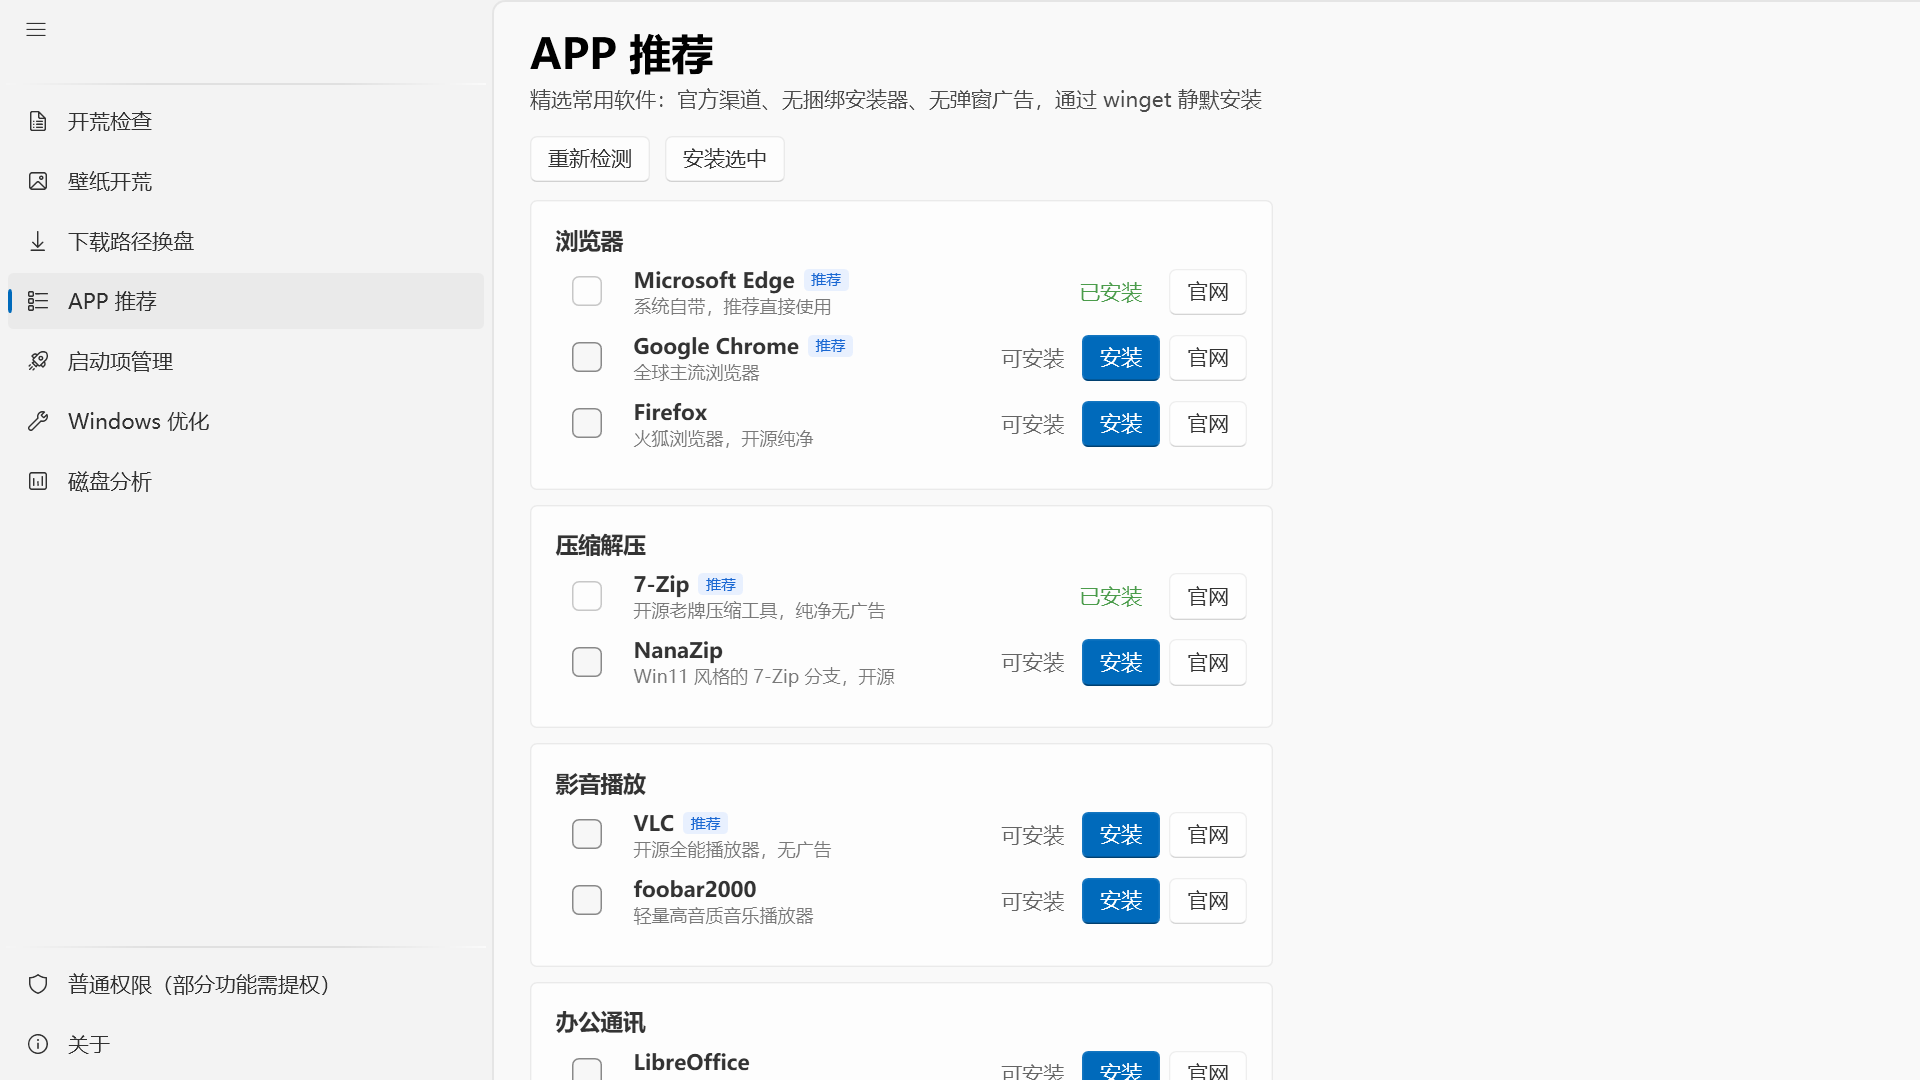
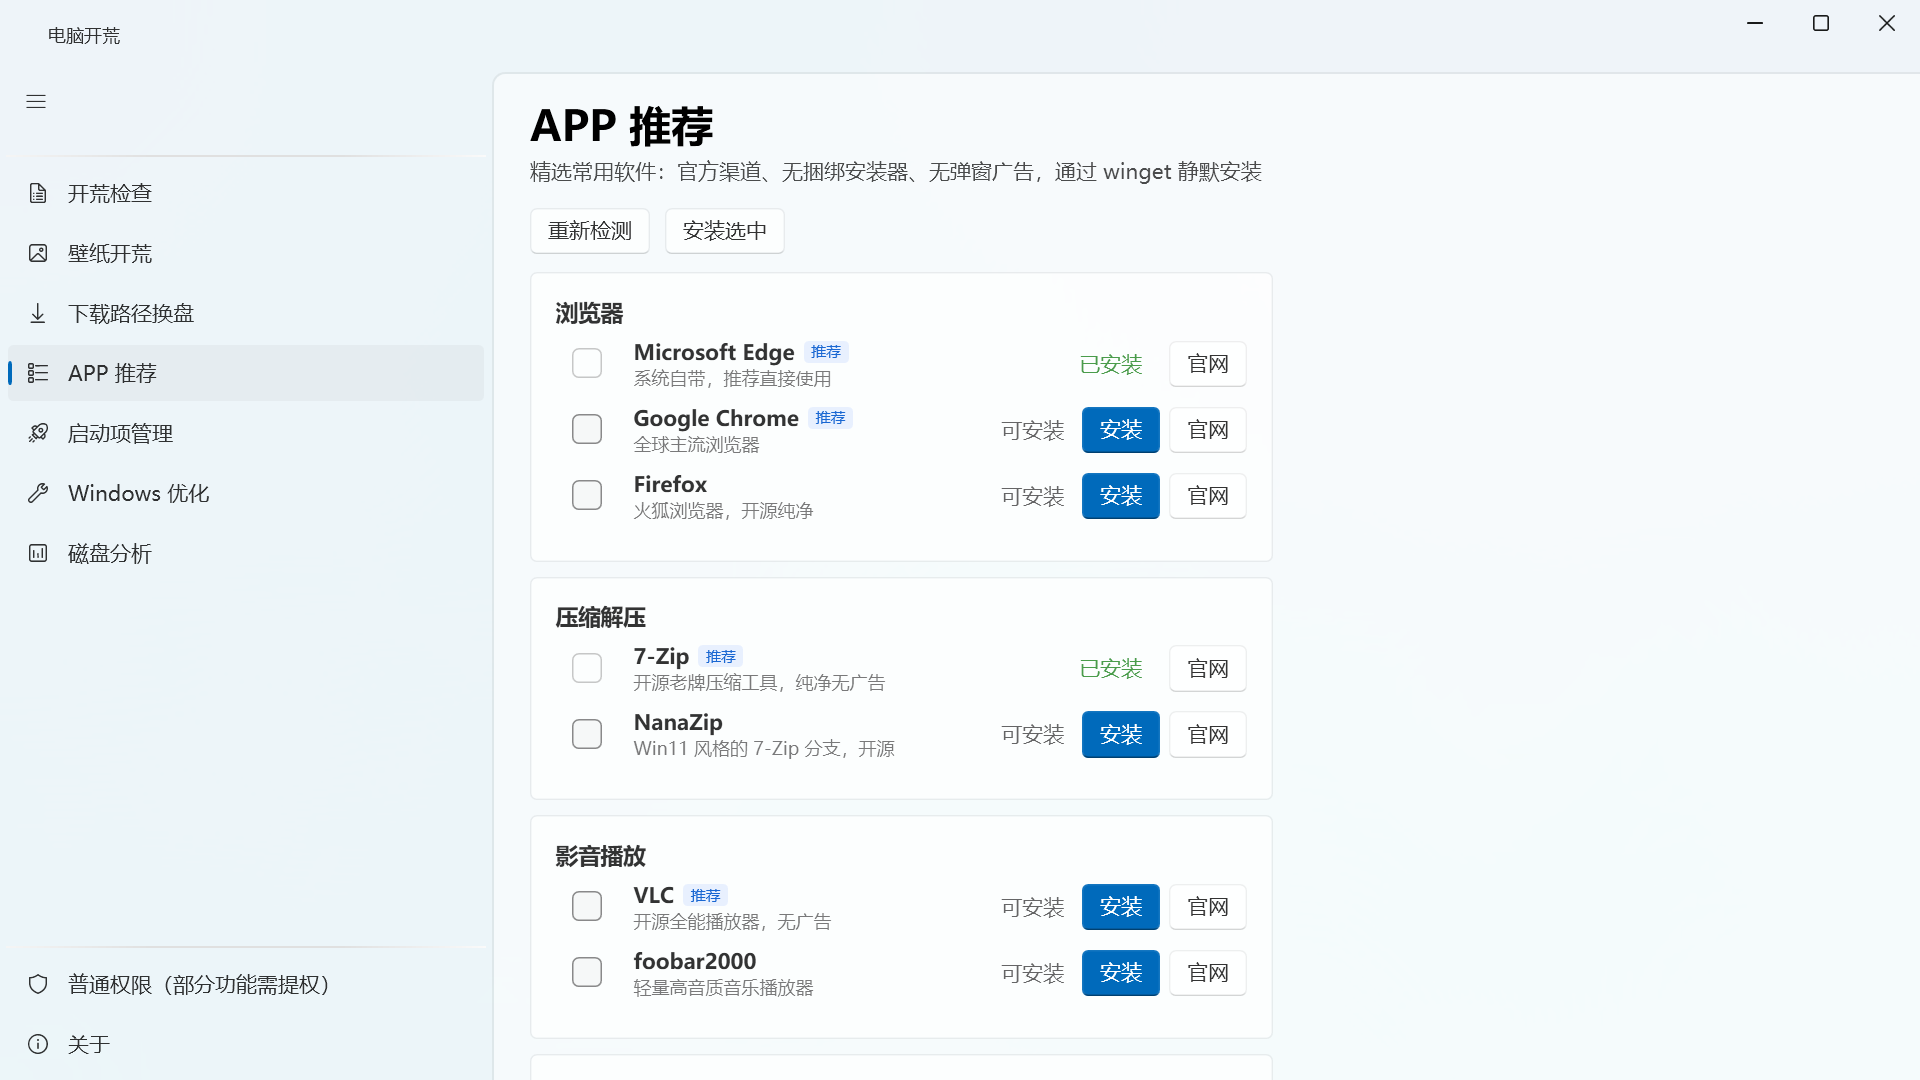
修复窗口无关闭按钮+官网整合——FluentWindow 加 TitleBar（最小化/最大化/关闭），关于页官网卡 www.cyhaoka.vip；README/发布说明接入官网；视频重采集重合成（标题栏入镜+官网片尾卡+全片右下角 cyhaoka.vip 水印）；publish.ps1 先删旧产物+失败即报错（修复杀软/运行中进程锁导致的静默失败）；发布产物刷新 SHA256 532C0346...

diff --git a/src/Dnkhw/MainWindow.xaml b/src/Dnkhw/MainWindow.xaml
@@ -10,21 +10,31 @@
                  ExtendsContentIntoTitleBar="True"
                  WindowBackdropType="Mica"
                  WindowCornerPreference="Round">
-    <ui:NavigationView x:Name="RootNavigation"
-                       IsBackButtonVisible="Collapsed"
-                       Loaded="RootNavigation_Loaded">
-        <ui:NavigationView.MenuItems>
-            <ui:NavigationViewItem Content="开荒检查" Icon="{ui:SymbolIcon DocumentBulletList24}" TargetPageType="{x:Type pages:CheckPage}" />
-            <ui:NavigationViewItem Content="壁纸开荒" Icon="{ui:SymbolIcon Image24}" TargetPageType="{x:Type pages:WallpaperPage}" />
-            <ui:NavigationViewItem Content="下载路径换盘" Icon="{ui:SymbolIcon ArrowDownload24}" TargetPageType="{x:Type pages:DownloadsPage}" />
-            <ui:NavigationViewItem Content="APP 推荐" Icon="{ui:SymbolIcon AppsList24}" TargetPageType="{x:Type pages:AppsPage}" />
-            <ui:NavigationViewItem Content="启动项管理" Icon="{ui:SymbolIcon Rocket24}" TargetPageType="{x:Type pages:StartupPage}" />
-            <ui:NavigationViewItem Content="Windows 优化" Icon="{ui:SymbolIcon Wrench24}" TargetPageType="{x:Type pages:OptimizePage}" />
-            <ui:NavigationViewItem Content="磁盘分析" Icon="{ui:SymbolIcon DataUsage24}" TargetPageType="{x:Type pages:DiskPage}" />
-        </ui:NavigationView.MenuItems>
-        <ui:NavigationView.FooterMenuItems>
-            <ui:NavigationViewItem x:Name="AdminBadge" Content="权限：检测中…" Icon="{ui:SymbolIcon Shield24}" IsEnabled="False" />
-            <ui:NavigationViewItem Content="关于" Icon="{ui:SymbolIcon Info24}" TargetPageType="{x:Type pages:AboutPage}" />
-        </ui:NavigationView.FooterMenuItems>
-    </ui:NavigationView>
+    <Grid>
+        <Grid.RowDefinitions>
+            <RowDefinition Height="Auto"/>
+            <RowDefinition Height="*"/>
+        </Grid.RowDefinitions>
+
+        <ui:TitleBar Grid.Row="0" Title="电脑开荒" CanMaximize="True"/>
+
+        <ui:NavigationView x:Name="RootNavigation"
+                           Grid.Row="1"
+                           IsBackButtonVisible="Collapsed"
+                           Loaded="RootNavigation_Loaded">
+            <ui:NavigationView.MenuItems>
+                <ui:NavigationViewItem Content="开荒检查" Icon="{ui:SymbolIcon DocumentBulletList24}" TargetPageType="{x:Type pages:CheckPage}" />
+                <ui:NavigationViewItem Content="壁纸开荒" Icon="{ui:SymbolIcon Image24}" TargetPageType="{x:Type pages:WallpaperPage}" />
+                <ui:NavigationViewItem Content="下载路径换盘" Icon="{ui:SymbolIcon ArrowDownload24}" TargetPageType="{x:Type pages:DownloadsPage}" />
+                <ui:NavigationViewItem Content="APP 推荐" Icon="{ui:SymbolIcon AppsList24}" TargetPageType="{x:Type pages:AppsPage}" />
+                <ui:NavigationViewItem Content="启动项管理" Icon="{ui:SymbolIcon Rocket24}" TargetPageType="{x:Type pages:StartupPage}" />
+                <ui:NavigationViewItem Content="Windows 优化" Icon="{ui:SymbolIcon Wrench24}" TargetPageType="{x:Type pages:OptimizePage}" />
+                <ui:NavigationViewItem Content="磁盘分析" Icon="{ui:SymbolIcon DataUsage24}" TargetPageType="{x:Type pages:DiskPage}" />
+            </ui:NavigationView.MenuItems>
+            <ui:NavigationView.FooterMenuItems>
+                <ui:NavigationViewItem x:Name="AdminBadge" Content="权限：检测中…" Icon="{ui:SymbolIcon Shield24}" IsEnabled="False" />
+                <ui:NavigationViewItem Content="关于" Icon="{ui:SymbolIcon Info24}" TargetPageType="{x:Type pages:AboutPage}" />
+            </ui:NavigationView.FooterMenuItems>
+        </ui:NavigationView>
+    </Grid>
 </ui:FluentWindow>

diff --git a/src/Dnkhw/Pages/AboutPage.xaml b/src/Dnkhw/Pages/AboutPage.xaml
@@ -42,6 +42,15 @@
 
             <ui:Card Margin="0,12,0,0" Padding="18">
                 <StackPanel>
+                    <TextBlock Text="官网" FontWeight="SemiBold" FontSize="15" Margin="0,0,0,8"/>
+                    <TextBlock TextWrapping="Wrap" LineHeight="22" Opacity="0.85"
+                               Text="电脑开荒网：www.cyhaoka.vip —— 软件下载、使用帮助与最新版本"/>
+                    <ui:Button Content="打开官网" Margin="0,10,0,0" HorizontalAlignment="Left" Click="OnOpenSiteClick"/>
+                </StackPanel>
+            </ui:Card>
+
+            <ui:Card Margin="0,12,0,0" Padding="18">
+                <StackPanel>
                     <TextBlock Text="技术栈" FontWeight="SemiBold" FontSize="15" Margin="0,0,0,8"/>
                     <TextBlock Text=".NET 9 · WPF · WPF-UI (Fluent) · CommunityToolkit.Mvvm · WMI · winget" Opacity="0.65" FontSize="12" TextWrapping="Wrap"/>
                 </StackPanel>

diff --git a/src/Dnkhw/Pages/AboutPage.xaml.cs b/src/Dnkhw/Pages/AboutPage.xaml.cs
@@ -1,14 +1,30 @@
+using System.Diagnostics;
 using System.Reflection;
+using System.Windows;
 using System.Windows.Controls;
 
 namespace Dnkhw.Pages;
 
 public partial class AboutPage : Page
 {
+    private const string OfficialSite = "https://www.cyhaoka.vip";
+
     public AboutPage()
     {
         InitializeComponent();
         var version = Assembly.GetExecutingAssembly().GetName().Version;
         VersionText.Text = version is null ? "版本 0.1.0" : $"版本 {version.Major}.{version.Minor}.{version.Build}";
+    }
+
+    private void OnOpenSiteClick(object sender, RoutedEventArgs e)
+    {
+        try
+        {
+            Process.Start(new ProcessStartInfo(OfficialSite) { UseShellExecute = true });
+        }
+        catch
+        {
+            // 打不开时静默，不弹窗打断使用
+        }
     }
 }
